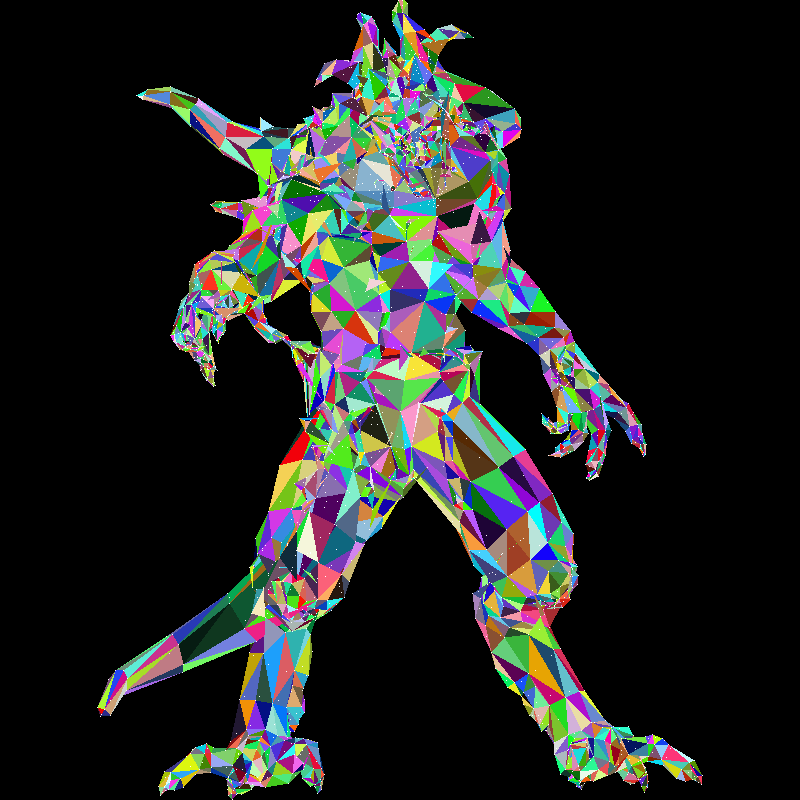
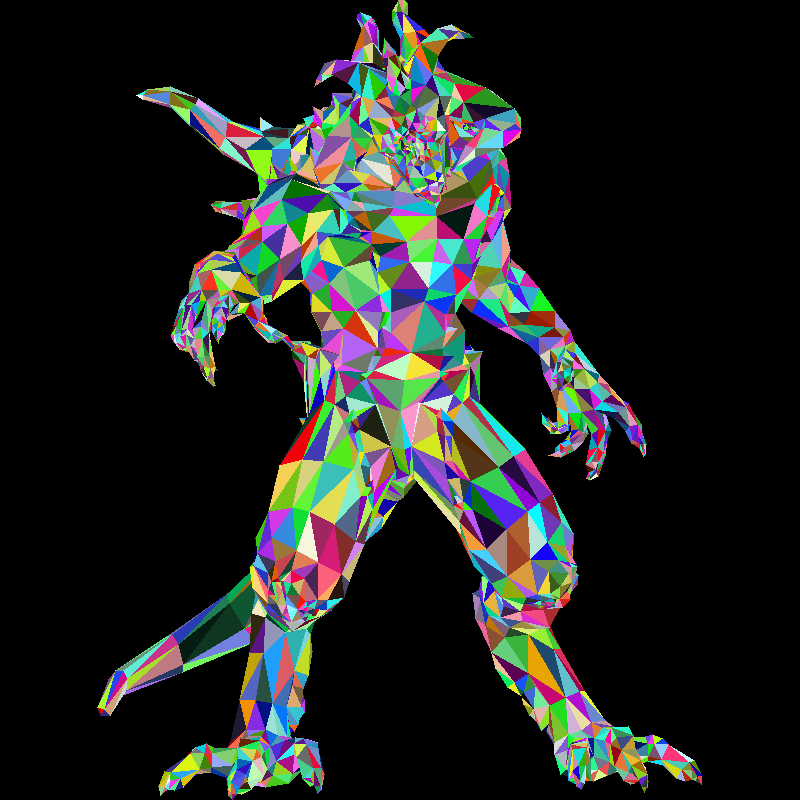
Implement z-buffering for hidden-face removal

diff --git a/geometry.h b/geometry.h
@@ -19,13 +19,21 @@ struct vec
     }
 };
 
-template <int n>
-std::ostream &operator<<(std::ostream &out, const vec<n> &v)
+template <>
+struct vec<2>
 {
-    for (int i = 0; i < n; i++)
-        out << v[i] << " ";
-    return out;
-}
+    double x = 0, y = 0;
+    double &operator[](const int i)
+    {
+        assert(i >= 0 && i < 2);
+        return i ? y : x;
+    }
+    double operator[](const int i) const
+    {
+        assert(i >= 0 && i < 2);
+        return i ? y : x;
+    }
+};
 
 template <>
 struct vec<3>
@@ -44,20 +52,142 @@ struct vec<3>
 };
 
 template <>
-struct vec<2>
+struct vec<4>
 {
-    double x = 0, y = 0;
+    double x = 0, y = 0, z = 0, w = 0;
     double &operator[](const int i)
     {
-        assert(i >= 0 && i < 2);
-        return i ? y : x;
+        assert(i >= 0 && i < 4);
+        switch (i)
+        {
+        case 0:
+            return x;
+        case 1:
+            return y;
+        case 2:
+            return z;
+        default:
+            return w;
+        }
     }
     double operator[](const int i) const
     {
-        assert(i >= 0 && i < 2);
-        return i ? y : x;
+        assert(i >= 0 && i < 4);
+        switch (i)
+        {
+        case 0:
+            return x;
+        case 1:
+            return y;
+        case 2:
+            return z;
+        default:
+            return w;
+        }
     }
 };
 
-typedef vec<3> vec3;
 typedef vec<2> vec2;
+typedef vec<3> vec3;
+typedef vec<4> vec4;
+
+// Operators
+
+template <int n>
+std::ostream &operator<<(std::ostream &out, const vec<n> &v)
+{
+    for (int i = 0; i < n; i++)
+        out << v[i] << " ";
+    return out;
+}
+
+template <int n>
+vec<n> operator+(const vec<n> &v1, const vec<n> &v2)
+{
+    vec<n> result;
+    for (int i = 0; i < n; i++)
+        result[i] = v1[i] + v2[i];
+    return result;
+}
+
+template <int n>
+vec<n> operator-(const vec<n> &v1, const vec<n> &v2)
+{
+    vec<n> result;
+    for (int i = 0; i < n; i++)
+        result[i] = v1[i] - v2[i];
+    return result;
+}
+
+template <int n>
+vec<n> operator-(const vec<n> &v1)
+{
+    vec<n> result;
+    for (int i = 0; i < n; i++)
+        result[i] = -v1[i];
+    return result;
+}
+
+template <int n>
+double operator*(const vec<n> &v1, const vec<n> &v2)
+{
+    double result = 0;
+    for (int i = 0; i < n; i++)
+        result += v1[i] * v2[i];
+    return result;
+}
+
+template <int n>
+vec<n> operator*(const vec<n> &v, const double scale)
+{
+    vec<n> result;
+    for (int i = 0; i < n; i++)
+        result[i] = v[i] * scale;
+    return result;
+}
+
+template <int n>
+vec<n> operator*(const double scale, const vec<n> &v)
+{
+    vec<n> result;
+    for (int i = 0; i < n; i++)
+        result[i] = v[i] * scale;
+    return result;
+}
+
+template <int n>
+vec<n> operator/(const vec<n> &v, const double scale)
+{
+    assert(scale != 0);
+    vec<n> result;
+    for (int i = 0; i < n; i++)
+        result[i] = v[i] / scale;
+    return result;
+}
+
+// Functions
+
+template <int n>
+double norm_squared(const vec<n> &v)
+{
+    return (v * v);
+}
+
+template <int n>
+double norm(const vec<n> &v)
+{
+    return std::sqrt(norm_squared(v));
+}
+
+template <int n>
+vec<n> unit_v(const vec<n> &v)
+{
+    double len = norm(v);
+    assert(len != 0);
+    return v / len;
+}
+
+inline vec3 cross(const vec3 &a, const vec3 &b)
+{
+    return {a.y * b.z - a.z * b.y, a.z * b.x - a.x * b.z, a.x * b.y - a.y * b.x};
+}

diff --git a/main.cpp b/main.cpp
@@ -5,8 +5,8 @@
 #include "model.h"
 #include "geometry.h"
 
-constexpr int width = 64;
-constexpr int height = 64;
+constexpr int width = 800;
+constexpr int height = 800;
 
 constexpr TGAColor white = {255, 255, 255, 255}; // attention, BGRA order
 constexpr TGAColor green = {0, 255, 0, 255};
@@ -48,10 +48,10 @@ void line(int ax, int ay, int bx, int by, TGAImage &framebuffer, TGAColor color)
 	}
 }
 
-vec2 projection(const vec3 point)
+vec3 projection(const vec3 point)
 {
 	// Simple ortho
-	return {(point.x + 1) * width / 2, (point.y + 1) * height / 2};
+	return {(point.x + 1) * width / 2, (point.y + 1) * height / 2, (point.z + 1) * 255 / 2};
 }
 
 double signed_triangle_area(int ax, int ay, int bx, int by, int cx, int cy)
@@ -59,7 +59,7 @@ double signed_triangle_area(int ax, int ay, int bx, int by, int cx, int cy)
 	return .5 * ((by - ay) * (bx + ax) + (cy - by) * (cx + bx) + (ay - cy) * (ax + cx));
 }
 
-void triangle(int ax, int ay, TGAColor ac, int bx, int by, TGAColor bc, int cx, int cy, TGAColor cc, TGAImage &framebuffer)
+void triangle(int ax, int ay, int az, int bx, int by, int bz, int cx, int cy, int cz, TGAImage &zbuffer, TGAImage &framebuffer, TGAColor color)
 {
 	int bbminx = std::min(std::min(ax, bx), cx); // bounding box for the triangle
 	int bbminy = std::min(std::min(ay, by), cy); // defined by its top left and bottom right corners
@@ -79,27 +79,43 @@ void triangle(int ax, int ay, TGAColor ac, int bx, int by, TGAColor bc, int cx, 
 			double alpha = signed_triangle_area(x, y, bx, by, cx, cy) / total_area;
 			double beta = signed_triangle_area(ax, ay, x, y, cx, cy) / total_area;
 			double gamma = signed_triangle_area(ax, ay, bx, by, x, y) / total_area;
-			if (alpha < 0 || beta < 0 || gamma < 0 || (alpha > 0.1 && beta > 0.1 && gamma > 0.1))
+			if (alpha < 0 || beta < 0 || gamma < 0)
 			{
 				continue;
 			}
-			TGAColor color = {ac[0] * alpha + bc[0] * beta + cc[0] * gamma,ac[1] * alpha + bc[1] * beta + cc[1] * gamma,ac[2] * alpha + bc[2] * beta + cc[2] * gamma,ac[3] * alpha + bc[3] * beta + cc[3] * gamma};
+			unsigned char z = static_cast<unsigned char>(alpha * az + beta * bz + gamma * cz);
+			if (z <= zbuffer.get(x, y)[0])
+				continue;
+			zbuffer.set(x, y, {z});
 			framebuffer.set(x, y, color);
 		}
 	}
 }
-
 int main(int argc, char **argv)
 {
+	if (argc != 2)
+	{
+		std::cerr << "Usage: " << argv[0] << " obj/model.obj" << std::endl;
+		return -1;
+	}
+	Model model(argv[1]);
+	TGAImage framebuffer(width, height, TGAImage::RGB);
+	TGAImage zbuffer(width, height, TGAImage::GRAYSCALE);
 
-	TGAImage framebuffer(width, height, TGAImage::RGBA);
+	// Iterate over every face and draw the three edges
 
-	int ax = 17, ay = 4;
-	int bx = 55, by = 39;
-	int cx = 23, cy = 59;
-
-	triangle(ax, ay, blue, bx, by, green, cx, cy, red, framebuffer);
+	for (int i = 0; i < model.nfaces(); i++)
+	{
+		vec3 a = projection(model.vert(i, 0));
+		vec3 b = projection(model.vert(i, 1));
+		vec3 c = projection(model.vert(i, 2));
+		TGAColor rnd;
+		for (int c = 0; c < 3; c++)
+			rnd[c] = std::rand() % 255;
+		triangle(a.x, a.y, a.z, b.x, b.y, b.z, c.x, c.y, c.z, zbuffer, framebuffer, rnd);
+	}
 
 	framebuffer.write_tga_file("framebuffer.tga");
+	zbuffer.write_tga_file("zbuffer.tga");
 	return 0;
 }

diff --git a/README.md b/README.md
@@ -3,15 +3,19 @@
 A CPU software rasterizer written in C++ with no graphics library, built by following the [Tiny Renderer](https://haqr.eu/tinyrenderer/) course by Dmitry V. Sokolov. Work in progress.
 
 ![Diablo pose render](render/diablo_pose.png)
+![Diablo pose zbuffer render](render/diablo_pose_zbuffer.png)
 
 ## Features
 
-- Line drawing with Bresenham's algorithm
+- Line drawing using Bresenham's algorithm
 - OBJ model loading (vertices and triangulated faces)
 - Orthographic projection
-- Triangle rasterization using barycentric coordinates with bounding box optimization
-- Parallelized rendering support (OpenMP)
-- TGA image output
+- Triangle rasterization using barycentric coordinates and bounding-box optimization
+- Z-buffering for hidden-surface removal
+- Interpolated depth values for per-pixel depth testing
+- Random colours assigned to triangles
+- Parallelized triangle rendering with OpenMP
+- TGA image output for the rendered image and z-buffer
 
 ## Build and run
 
